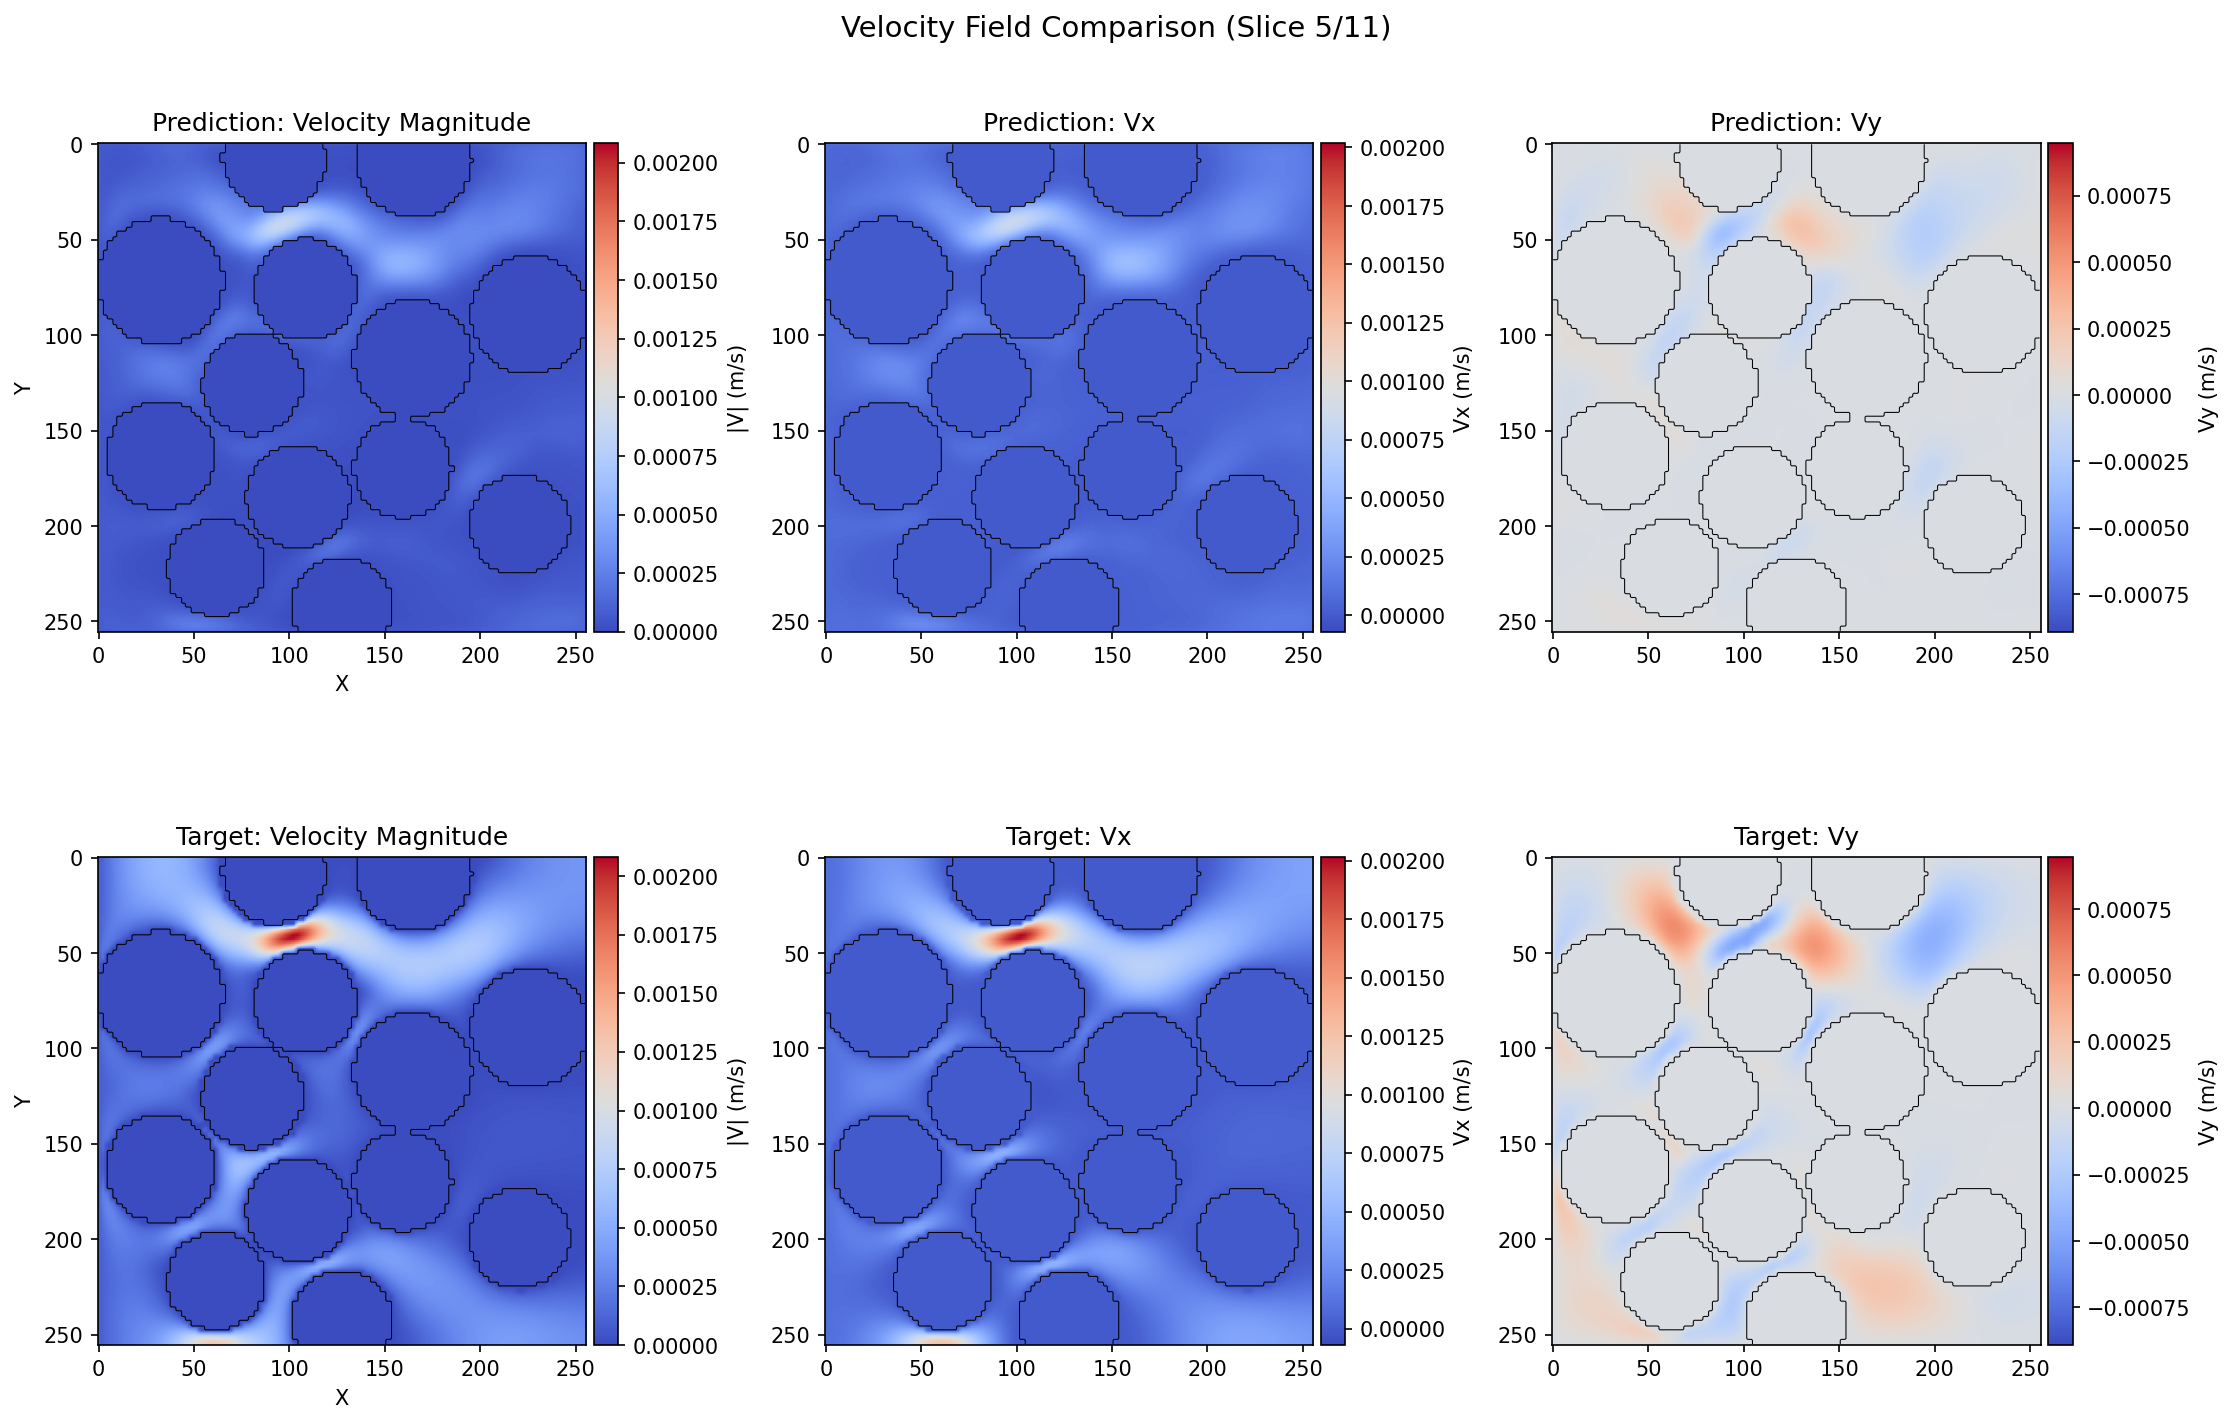
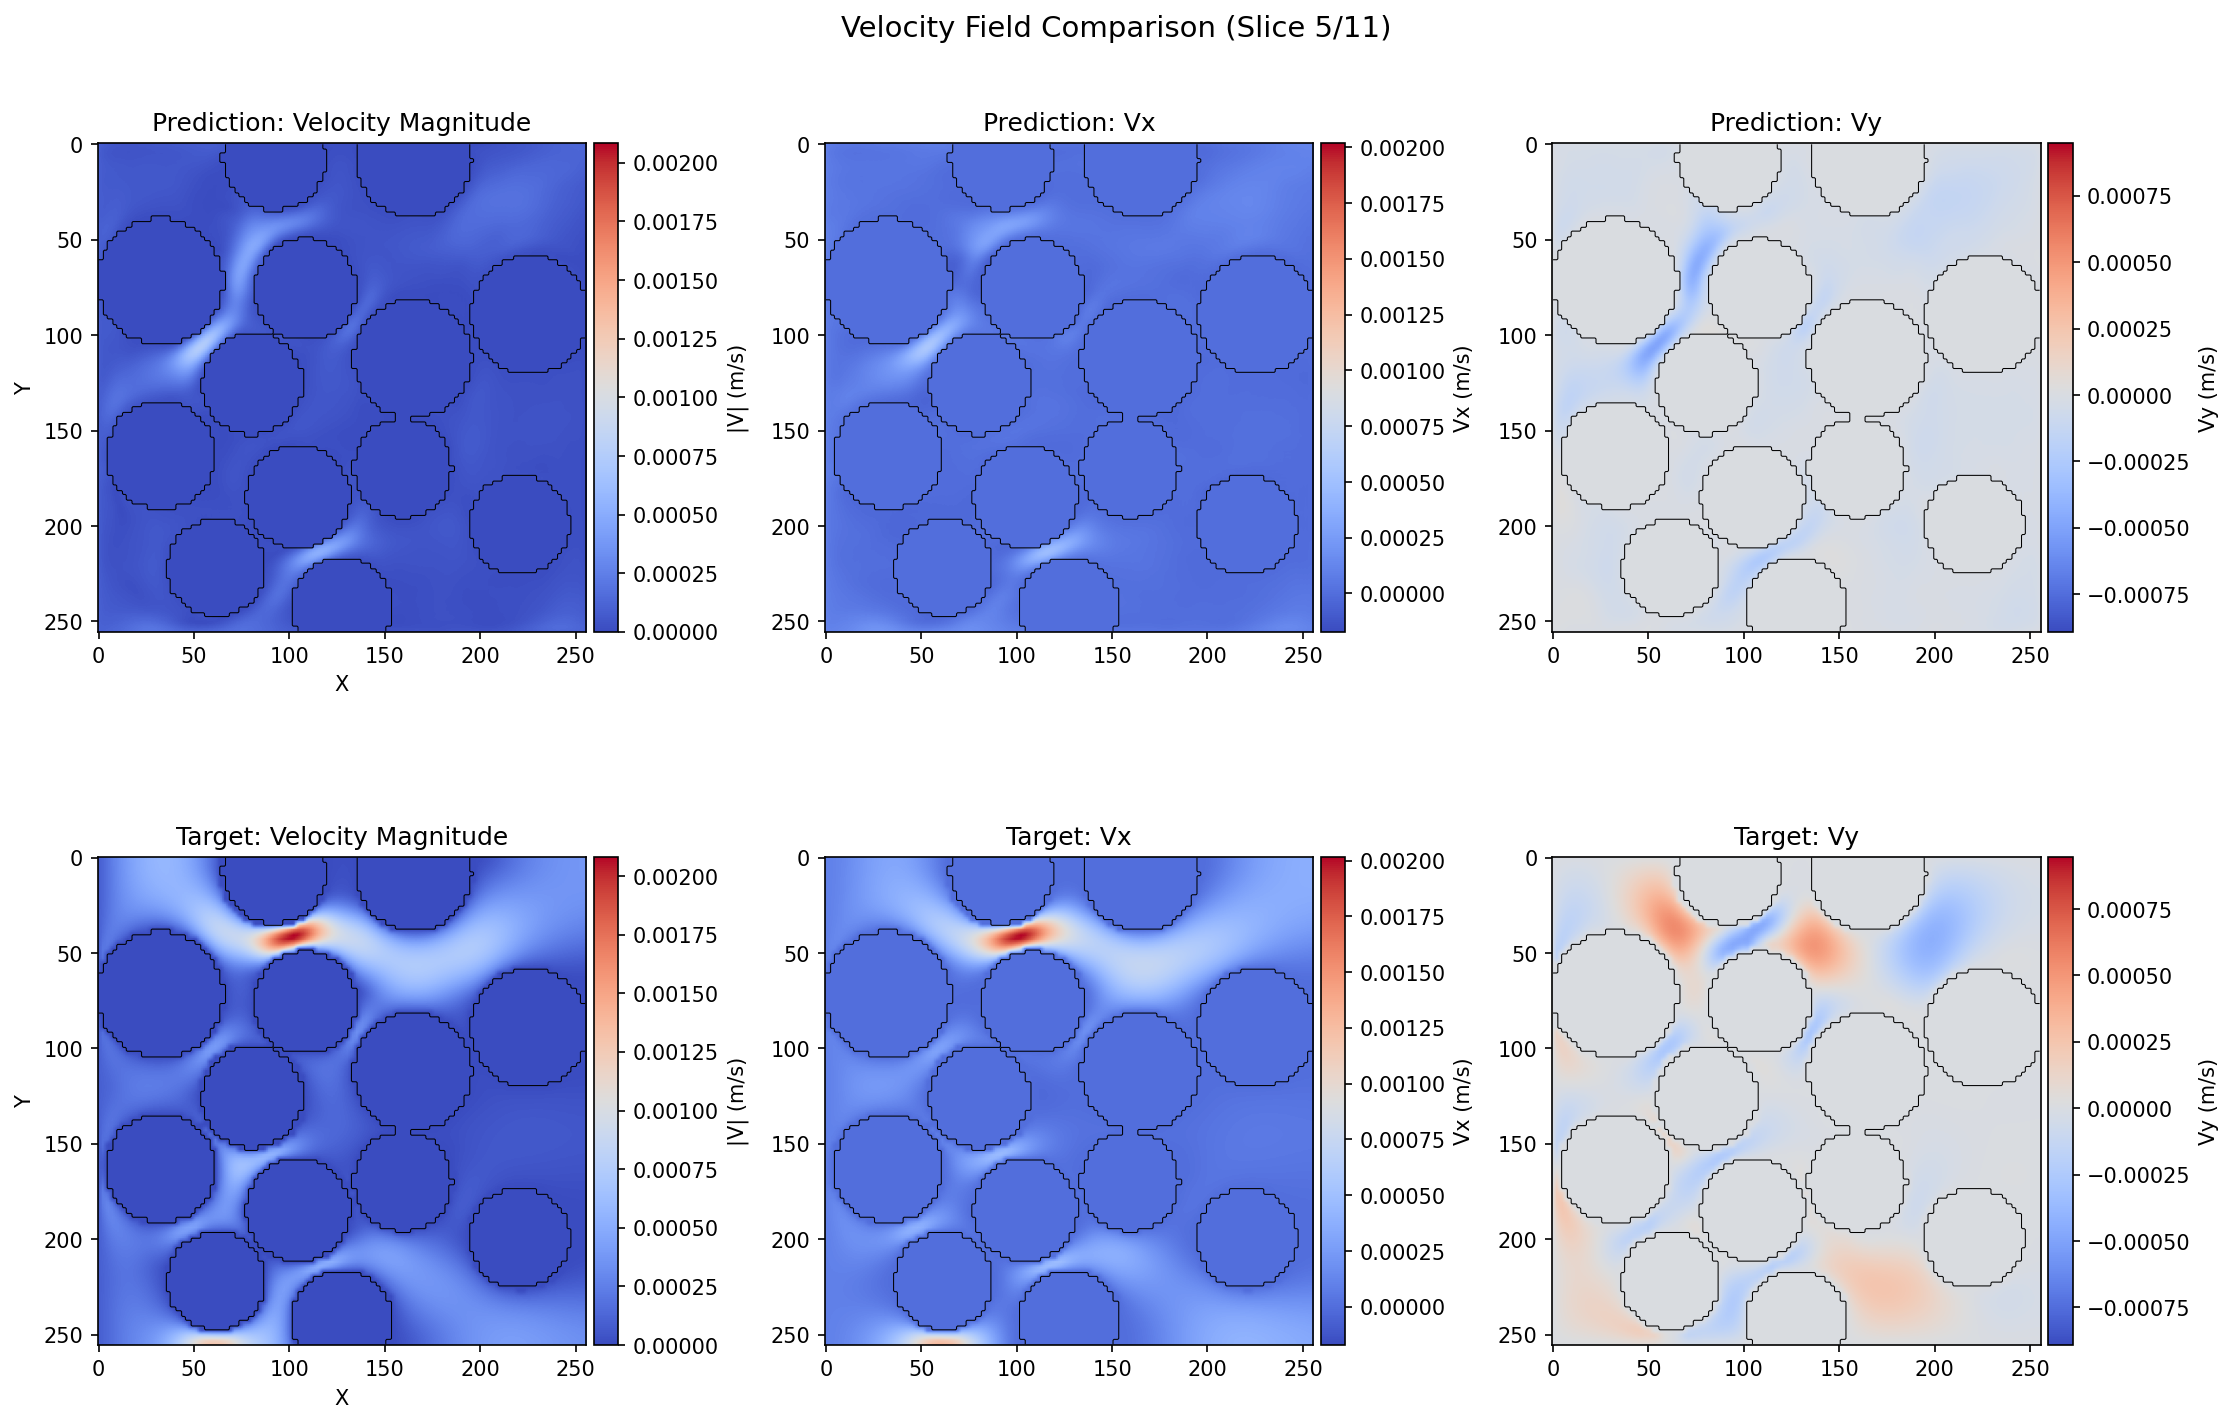
bug fix

diff --git a/Diffusion_model/src/predictor.py b/Diffusion_model/src/predictor.py
@@ -832,7 +832,7 @@ class LatentDiffusionPredictor(Predictor):
                 noise_pred = self.model(unet_input, t_batch)
             
             # One-step denoising: x_0 = (x_t - sqrt(1-alpha_bar_t) * noise_pred) / sqrt(alpha_bar_t)
-            alpha_bar = self.scheduler.alpha_bar_t[t]
+            alpha_bar = self.scheduler.alphas_cumprod[t]
             x = (x - torch.sqrt(1 - alpha_bar) * noise_pred) / torch.sqrt(alpha_bar)
             # Clip to reasonable range in latent space
             x = torch.clamp(x, -30.0, 30.0)

diff --git a/README.md b/README.md
@@ -275,9 +275,11 @@ python Inference/inference.py `
   Diffusion_model/trained/[model_folder] `
   --vae-encoder-path VAE_model/trained/dual_vae_stage2_2d `
   --vae-decoder-path VAE_model/trained/dual_vae_stage1_3d `
+  --dataset-dir path/to/dataset_3d `
   --index 0
 ```
 
+- `--dataset-dir`: Path to dataset (for loading test samples)
 - `--index`: Test sample index (default: 0)
 
 **Output**: 
